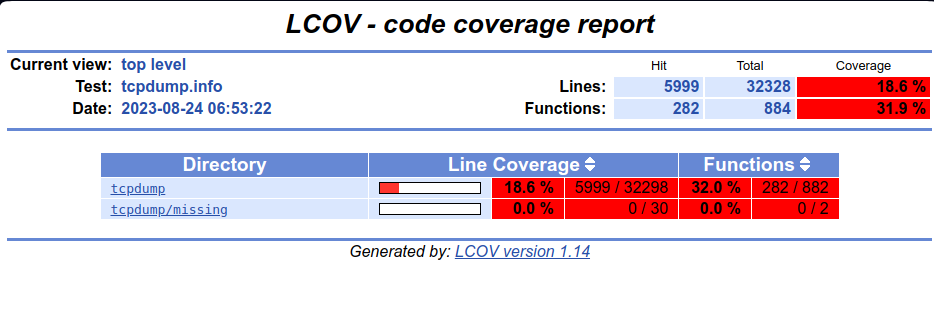
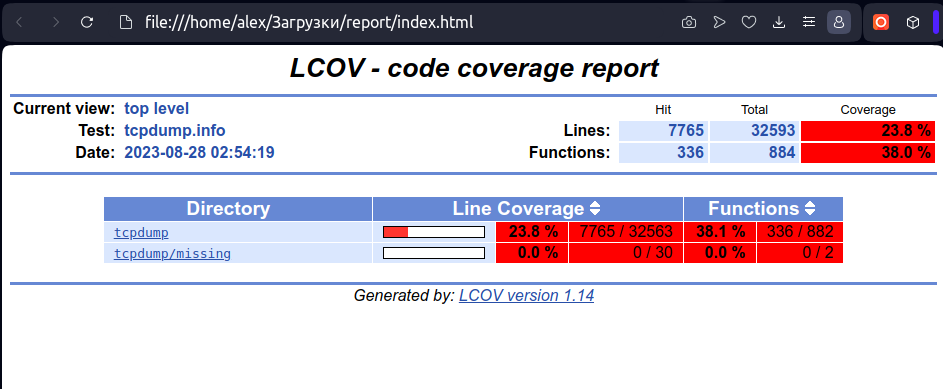
make report

diff --git a/README.md b/README.md
@@ -3,154 +3,143 @@
 Задание 3\
 Вариант 1
 
-### Исправление недочетов 1 практической работы ###
 
-В рамках первой практической работы мною был сделан анализ покрытия кода встроенными тестами. Который должен был выполнятся в рамках второй (данной) практической работы. Однако помимо этого были допущены некоторые вещи которые небоходимо исправить.
+Все необходимые фиксы исходного кода необходимые для фаззинга, сборки с санитайзерами и сбора покрытия описаны в [ПР2](https://github.com/alex-12345/jenkins_tcpdump/blob/lab2/README.md) 
 
-#### 1. Некорректный результат тестов в отладной сборке ####
 
-В сборке с сантийзерами падали почти все тесты (см скриншот ниже).
-Это было связано с тем что отладночная версия собиралась клангом и в случае проблемы с ipv6 clang просто проигнорировал ее. Теперь отладочная версия собирается с помоощью gcc так
+### Отчетные материалы ПР3 ###
 
-```Bash
-export USER_BUILD_FLAGS="-fsanitize=address -fsanitize=undefined -O0 -g3" && AFL_USE_UBSAN=1 AFL_USE_ASAN=1 CC=afl-gcc CXX=afl-g++ CFLAGS="$USER_BUILD_FLAGS" CXXFLAGS="$USER_BUILD_FLAGS" LDFLAGS="$USER_BUILD_FLAGS" ./configure
-```
+Полная последовательность команд представлена в [Jenkinsfile](./Jenkinsfile)
 
-Проблема при сборке таким образом сразу же отображается
+Оставлю некоторые комментарии
 
-![Проблема при сборке](images/ipv6problem.png)
+Необходимая сборка компилятора осуществляется в фазе `Build debug with sanitizers and coverage via afl-g++` для сборки используется компилятор `afl-gcc`
 
-Данная проблема уходит в версии tcpdump-4.8.0. По анализу коммитов был сделан патч [fix_disableipv6.patch](patches/fix_disableipv6.patch)
-
-он применяется в Dockerfile так
-```Bash
-git apply ../patches/fix_disableipv6.patch
-```
-
-Также если уставлен openssl появляяется такая ошибка 
-
-![openssl_problem](images/openssl_build_problem.png)
-
-Ее также можно пофиксить созданным мною патчем [fix_ssl_build.patch](patches/fix_ssl_build.patch)
+Передаются следующие флаги
 
 ```Bash
-git apply ../patches/fix_ssl_build.patch
-```
-
-При каждом запуске для сборка трафика появлялась следующая ошибка
-
-![runtime_error](images/runtime_error.png)
-
-Ее также можно пофиксить созданным мною патчем [utilc.fix.patch](patches/utilc.fix.patch)
-
-```Bash
-git apply ../patches/utilc.fix.patch
-```
-
-Теперь после запуска тестов для отладочной версии падают только 7 тестов как и в релизной версии. Вывод можно увидеть в файле [ilustrate_output/sanitizer_make_check.txt](ilustrate_output/sanitizer_make_check.txt)
-
-Там видно что падают 7 тестов. Согласно данном [issue](https://github.com/the-tcpdump-group/tcpdump/issues/381) Проблема ведет к openssl1.0-dev. Однако ее нельзя напрямую поставить через `apt`. После скачивания и установки напрямую
-
-```bash
-wget http://launchpadlibrarian.net/668090209/libssl1.0.0_1.0.2n-1ubuntu5.13_i386.deb
-wget http://launchpadlibrarian.net/668090205/libssl1.0-dev_1.0.2n-1ubuntu5.13_i386.deb
-sudo apt install ./libssl1.0.0_1.0.2n-1ubuntu5.13_i386.deb
-sudo apt install ./libssl1.0-dev_1.0.2n-1ubuntu5.13_i386.deb
-```
-
-Результат стал лучше (теперь он не просто игнорирует входные данные, а выдает правильный результат хоть и не достаточно полный). Такойже как и в этом [issue](https://giters.com/mcr/tcpdump/issues/33)
-
-Неполна выглядит примерно так
+-fsanitize=address \ # включаем сантиайзер на отслеживание утечек памяти, неправильных адресов и прочего
+-fsanitize=undefined \ #включаем санитайзер отслеживающий undefined behavior ситации
+-O0 \ # выключаем оптимизации
+-g3 \ # включаем отладочную инфу
+--coverage # собираем покрытие (профиль)
 
 ```
-< IP 192.1.2.23.4500 > 192.1.2.45.4500: UDP-encap: ESP(spi=0x12345678,seq=0x2), length 116
-< IP 192.1.2.23.4500 > 192.1.2.45.4500: UDP-encap: ESP(spi=0x12345678,seq=0x3), length 116
----
-> IP 192.1.2.23.4500 > 192.1.2.45.4500: UDP-encap: ESP(spi=0x12345678,seq=0x2), length 116:  ip-proto-227 49
-> IP 192.1.2.23.4500 > 192.1.2.45.4500: UDP-encap: ESP(spi=0x12345678,seq=0x3), length 116: PIMv13, length 10
-```
 
-Учитывая дату ошибки (11 лет назад) скорее всего данную ошибку будет очень сложно исправить (так как окружение в современном дистрибутиве отличается колоссально)
-
-В дальнейшем для отключения данных тестов используется патч [testlist.fix.patch](patches/testlist.fix.patch)
-
-```Bash
-git apply ../patches/testlist.fix.patch
-```
-
-
-### Отчетные материалы ПР2 ###
-
-#### 1. Описать порядок сборки ОО с инструментацией для анализа покрытия кода (команды сборки ОО с инструментацией для анализа покрытия кода, содержимое docker-файла). ####
-
-Отладочная сборка для анализа покрытия с санитайзерами осуществляется так:
-
+Полностью команда следующая
 ```Bash
 export USER_BUILD_FLAGS="-fsanitize=address -fsanitize=undefined -O0 -g3 --coverage" && AFL_USE_UBSAN=1 AFL_USE_ASAN=1 CC=afl-gcc CXX=afl-g++ CFLAGS="$USER_BUILD_FLAGS" CXXFLAGS="$USER_BUILD_FLAGS" LDFLAGS="$USER_BUILD_FLAGS" ./configure
-make -j$(nproc) # собираем
+                    make -j$(nproc)
 ```
 
-Предварительно применяются необходимые патчи:
 
-```
-git apply ../patches/fix_disableipv6.patch
-git apply ../patches/fix_ssl_build.patch
-git apply ../patches/utilc.fix.patch
-```
+Далее к корпусу входных документов
 
-Папка patches скачивается из данного гит репо сразу же после checkout репозитория tcpdump
+Позаимствовал идею [отсюда](https://www.youtube.com/watch?v=iXCthIsxrz8&t=1s) Так как входными данными являются данные в бинарном формате pcap то сложно что то быстро придумать
 
-```bash
-mkdir -p ../patches
-cd ../patches
-wget https://raw.githubusercontent.com/alex-12345/jenkins_tcpdump/lab2/patches/fix_disableipv6.patch 
-wget https://raw.githubusercontent.com/alex-12345/jenkins_tcpdump/lab2/patches/fix_ssl_build.patch
-wget https://raw.githubusercontent.com/alex-12345/jenkins_tcpdump/lab2/patches/testlist.fix.patch
-wget https://raw.githubusercontent.com/alex-12345/jenkins_tcpdump/lab2/patches/utilc.fix.patch
-cd ../tcpdump
-```
-
-#### 2. Описать порядок запуска тестирования и оценки покрытия кода (команды запуска тестирования, содержимое docker-файла, представить результаты анализа покрытия кода). ####
-
-Cбор покрытия осуществляется следующей последовательностью команд:
+Взял исходные тесты (которые выполнились успешно) из папки tests проекта и прогнал их через минимизатор afl-cmin.bash
 
 ```Bash
-make check > coverage_report.txt # запускаем тесты и записываем вывод
-lcov -t "tcpdump" -o tcpdump.info -c -d . # собираем данные gcda
-genhtml -o report tcpdump.info | tail -n3 > coverage_short_report.txt # генерируем html отчет и процент покрытия в тесктовом варианте
-tar cJf coverage_report.tar.xz report # архивируем полученные html отчеты
+git apply ../patches/testlist.fix.patch # убарали нерабочие тесты
+afl-cmin.bash -i tests/ -o testmin -m none -- ./tcpdump -nnr @@ 
+# Здесь -i входная директория 
+#       -o выходная директория 
+#       -m лимит по памяти
+#       -nnr флаг что происходит чтение из файла для tcpdump
 ```
-####  3. Описать порядок запуска тестирования для ОО со встроенными датчиками ошибок (команды запуска тестирования, содержимое docker-файла). #### 
 
-Аналигично пункту 1 только без флага --coverage
+Пример выполнения этого скрипта (на локальной машине) можно видеть на скриншоте
 
-####   4. Описать ключевые особенности сбора покрытия, описать особенности текущего покрытия кода тестами (скриншоты, артефакты). ####  
+![мнимиззация](/images/cmin.png)
 
-После выполнения пайплайна пролучаем следующие артефакты (см скриншот) 
+После чего запускаем фаззинг следующими командами в паралельном режиме
 
-![Артефакты](images/artifacts.png)
+```Bash
+AFL_I_DONT_CARE_ABOUT_MISSING_CRASHES=1 screen -S "M-tcpdump" -d -m  afl-fuzz -V 100 -i testmin -o tcpdumpfuzz -M "M" -- ./tcpdump -vvv -ee -nnr @@
+AFL_I_DONT_CARE_ABOUT_MISSING_CRASHES=1 screen -S "S-1-tcpdump" -d -m  afl-fuzz -V 100 -i testmin -o tcpdumpfuzz -S "S-1" -- ./tcpdump -vvv -ee -nnr @@
+AFL_I_DONT_CARE_ABOUT_MISSING_CRASHES=1 screen -S "S-2-tcpdump" -d -m  afl-fuzz -V 100 -i testmin -o tcpdumpfuzz -S "S-2" -- ./tcpdump -vvv -ee -nnr @@
+# Здесь -S "M-tcpdump" - имя сокета для screen
+#       -d -m (включаем detach и игнорируем ошибки связанные с $STY) 
+# Для afl-fuzz
+#       -V 100 время выполнения 100 сек
+#       -S/M - Идетификация процесса (имя master/slave)
+#       -i входная директория 
+#       -o выходная директория 
+# Для  tcpdump
+#       -vvv -ee (печатаем максимальную отладочную информацию и ошибки)
+#       -nnr читаем из файла
 
-Здесь:
-- coverage_report.tar.xz	- архив с html отчетами по покрытию тестами
-- coverage_report.txt - выхлоп make check сборки с покрытием
-- coverage_short_report.txt	- краткая сводка по общему проценту покрытия
-- sanitizers_report.txt -выхлоп make check сборки с покрытием
+```
+Пример работы на локальной машине
+
+![фазинг](images/fuzzing_treads.png)
+
+Графическое окно фазера можно увидеть на скриншоте ниже 
+
+![фазинг2](images/plot.png)
+
+**В Jenkins возникла проблема с идентификации пользователя для screen**  (См скриншоты ниже)
+
+![проблема1](images/jen1.png)
+
+![проблема2](images/jen2.png)
+
+В результате в jenkins пришлось отказаться от потоков и там выполгняется такой же код только без screen 
+
+**Это единственное место в Jenkins которое отличается от запуска на локальной пашине**
+
+```Bash 
+ AFL_I_DONT_CARE_ABOUT_MISSING_CRASHES=1 afl-fuzz -V 100 -i testmin -o tcpdumpfuzz -M "M" -- ./tcpdump -vvv -ee -nnr @@
+AFL_I_DONT_CARE_ABOUT_MISSING_CRASHES=1 afl-fuzz -V 100 -i testmin -o tcpdumpfuzz -S "S-1" -- ./tcpdump -vvv -ee -nnr @@
+AFL_I_DONT_CARE_ABOUT_MISSING_CRASHES=1 afl-fuzz -V 100 -i testmin -o tcpdumpfuzz -S "S-2" -- ./tcpdump -vvv -ee -nnr @@
+# Здесь для afl-fuzz
+#       -V 100 время выполнения 100 сек
+#       -S/M - Идетификация процесса (имя master/slave)
+#       -i входная директория 
+#       -o выходная директория 
+# Для  tcpdump
+#       -vvv -ee (печатаем максимальную отладочную информацию и ошибки)
+#       -nnr читаем из файла
+
+```
+
+Далее проходимся по очередям фаззинга чтобы собрать профиль для оценки покрытия тестам. Из-за особеностей Jenkins его пришлось выделить в отдельный скрипт [get_covarege.sh](scripts/get_covarege.sh)
+
+```Bash
+for F in $PWD/tcpdumpfuzz/M/queue/*; do ./tcpdump -vvv -ee -nnr $F || true; done
+for F in $PWD/tcpdumpfuzz/S-1/queue/*; do ./tcpdump -vvv -ee -nnr $F || true; done
+for F in $PWD/tcpdumpfuzz/S-2/queue/*; do ./tcpdump -vvv -ee -nnr $F || true; done
+```
+
+После того как профиль собрам запускаем генерацию отчета уже описанным во второй ПР способом через lcov
+
+```Bash
+lcov -t "tcpdump" -o tcpdump.info -c -d .
+genhtml -o report tcpdump.info | tail -n3 > coverage_short_report.txt
+```
+
+Как результат в Jenkins после сборки имеем 4 файла (см скришот ниже)
+- coverage_report.tar.xz - html отчеты покрытия
+- coverage_short_report.txt - информация об общем проценте покрытия
+- fuzzing_tcpdumpfuzz.tar.xz	- выходные данные фазера
+- fuzzing_testmin.tar.xz	- минимизированный корпус входных документов
+
+![резульат](images/jen_fin.png)
 
 
-Открыв html отчет видим следующую картину:
-![покрытие](/images/cov.png)
+Посмотрим html отчеты
 
-Строки кода покрыты тестами на 18.6%
-Функции - на 31.9%
+![резульат_отчет](images/cov.png)
 
-Можно полазить по отчетам и посмотреть какие именно участки кода и файлы вообще были покрыты
+По результату видно что удалось по сравнению со второй ПР повысить покрытие кода с 18.6% до 23.8 %, функций - с 31.9% до  38.0 %
 
-![покрытие1](/images/cov2.png)
+**Для файзера запущенного на виртуальной машине в докере считаю что это неплохой резульат**
 
-![покрытие2](/images/cov3.png)
+Также в процессе фазинга были собраны краши, их можно увидеть в архиве fuzzing_tcpdumpfuzz.tar.xz 
 
-#### 5. Описать порядок добавления заданий на сборку и анализ покрытия в CI/CD системе Jenkins. ####
+![краши](images/crushes.png)
 
-Как и первой практической работе пайплаин создан как Pipline script from SCM но уже из ветки lab2
+Все описанное работает в Jenkins необходимо только создать pipeline указав данный репо и ветку
+
 
 ![пайплаин](/images/jenkins_pipe.png)
